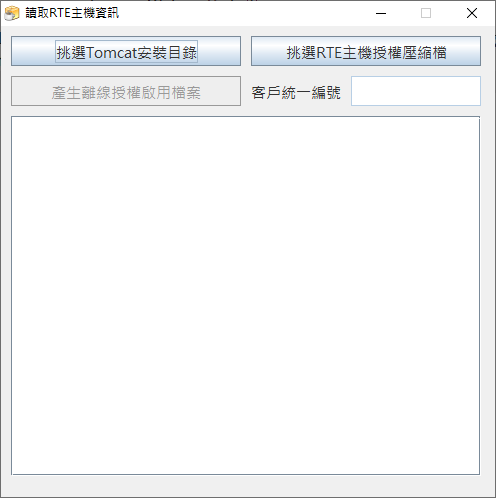
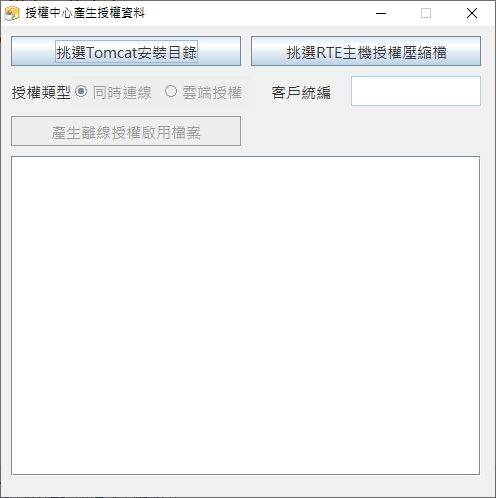
#9213 3-1 規格變更

diff --git a/8.10.2/RTE/CUSTOM/AUTH/README.md b/8.10.2/RTE/CUSTOM/AUTH/README.md
@@ -85,6 +85,16 @@
     * 除致能條件 = 挑選RTE主機授權壓縮檔
       * 有讀取到檔案時，本按鈕除能
       * 尚未讀取到時，本按鈕致能
+  * 欄位.授權類型
+    * 單選欄位
+    * 除致能條件 = 是否已正確讀取到授權中心網站設定檔案 AND 讀取到RTE主機授權壓縮檔
+      * 上述條件成立，本欄位致能
+    * 選項如下 :
+      * 同時連線 : 該選項為預設值
+      * 雲端授權
+  * 欄位.客戶統一編號
+    * 除致能條件 = 是否已正確讀取到授權中心網站設定檔案 AND 讀取到RTE主機授權壓縮檔
+      * 上述條件成立，本欄位致能
   * 按鈕.產生離線授權啟用檔案
     * 點擊後依據讀取到的授權中心網站設定檔案進行以下動作
       * 產生授權紀錄
@@ -93,9 +103,6 @@
       * 將上述檔案壓縮成ZIP檔案
     * 除致能條件 = 是否已正確讀取到授權中心網站設定檔案 AND 讀取到RTE主機授權壓縮檔 AND 欄位.客戶統一編號不為空
       * 上述條件成立，本按鈕致能
-  * 欄位.客戶統一編號
-    * 除致能條件 = 是否已正確讀取到授權中心網站設定檔案 AND 讀取到RTE主機授權壓縮檔
-      * 上述條件成立，本欄位致能
   * 欄位.狀態紀錄備註
     * 文字型態欄位
     * 操作上述兩個按鈕時的狀態紀錄會顯示於本欄位
